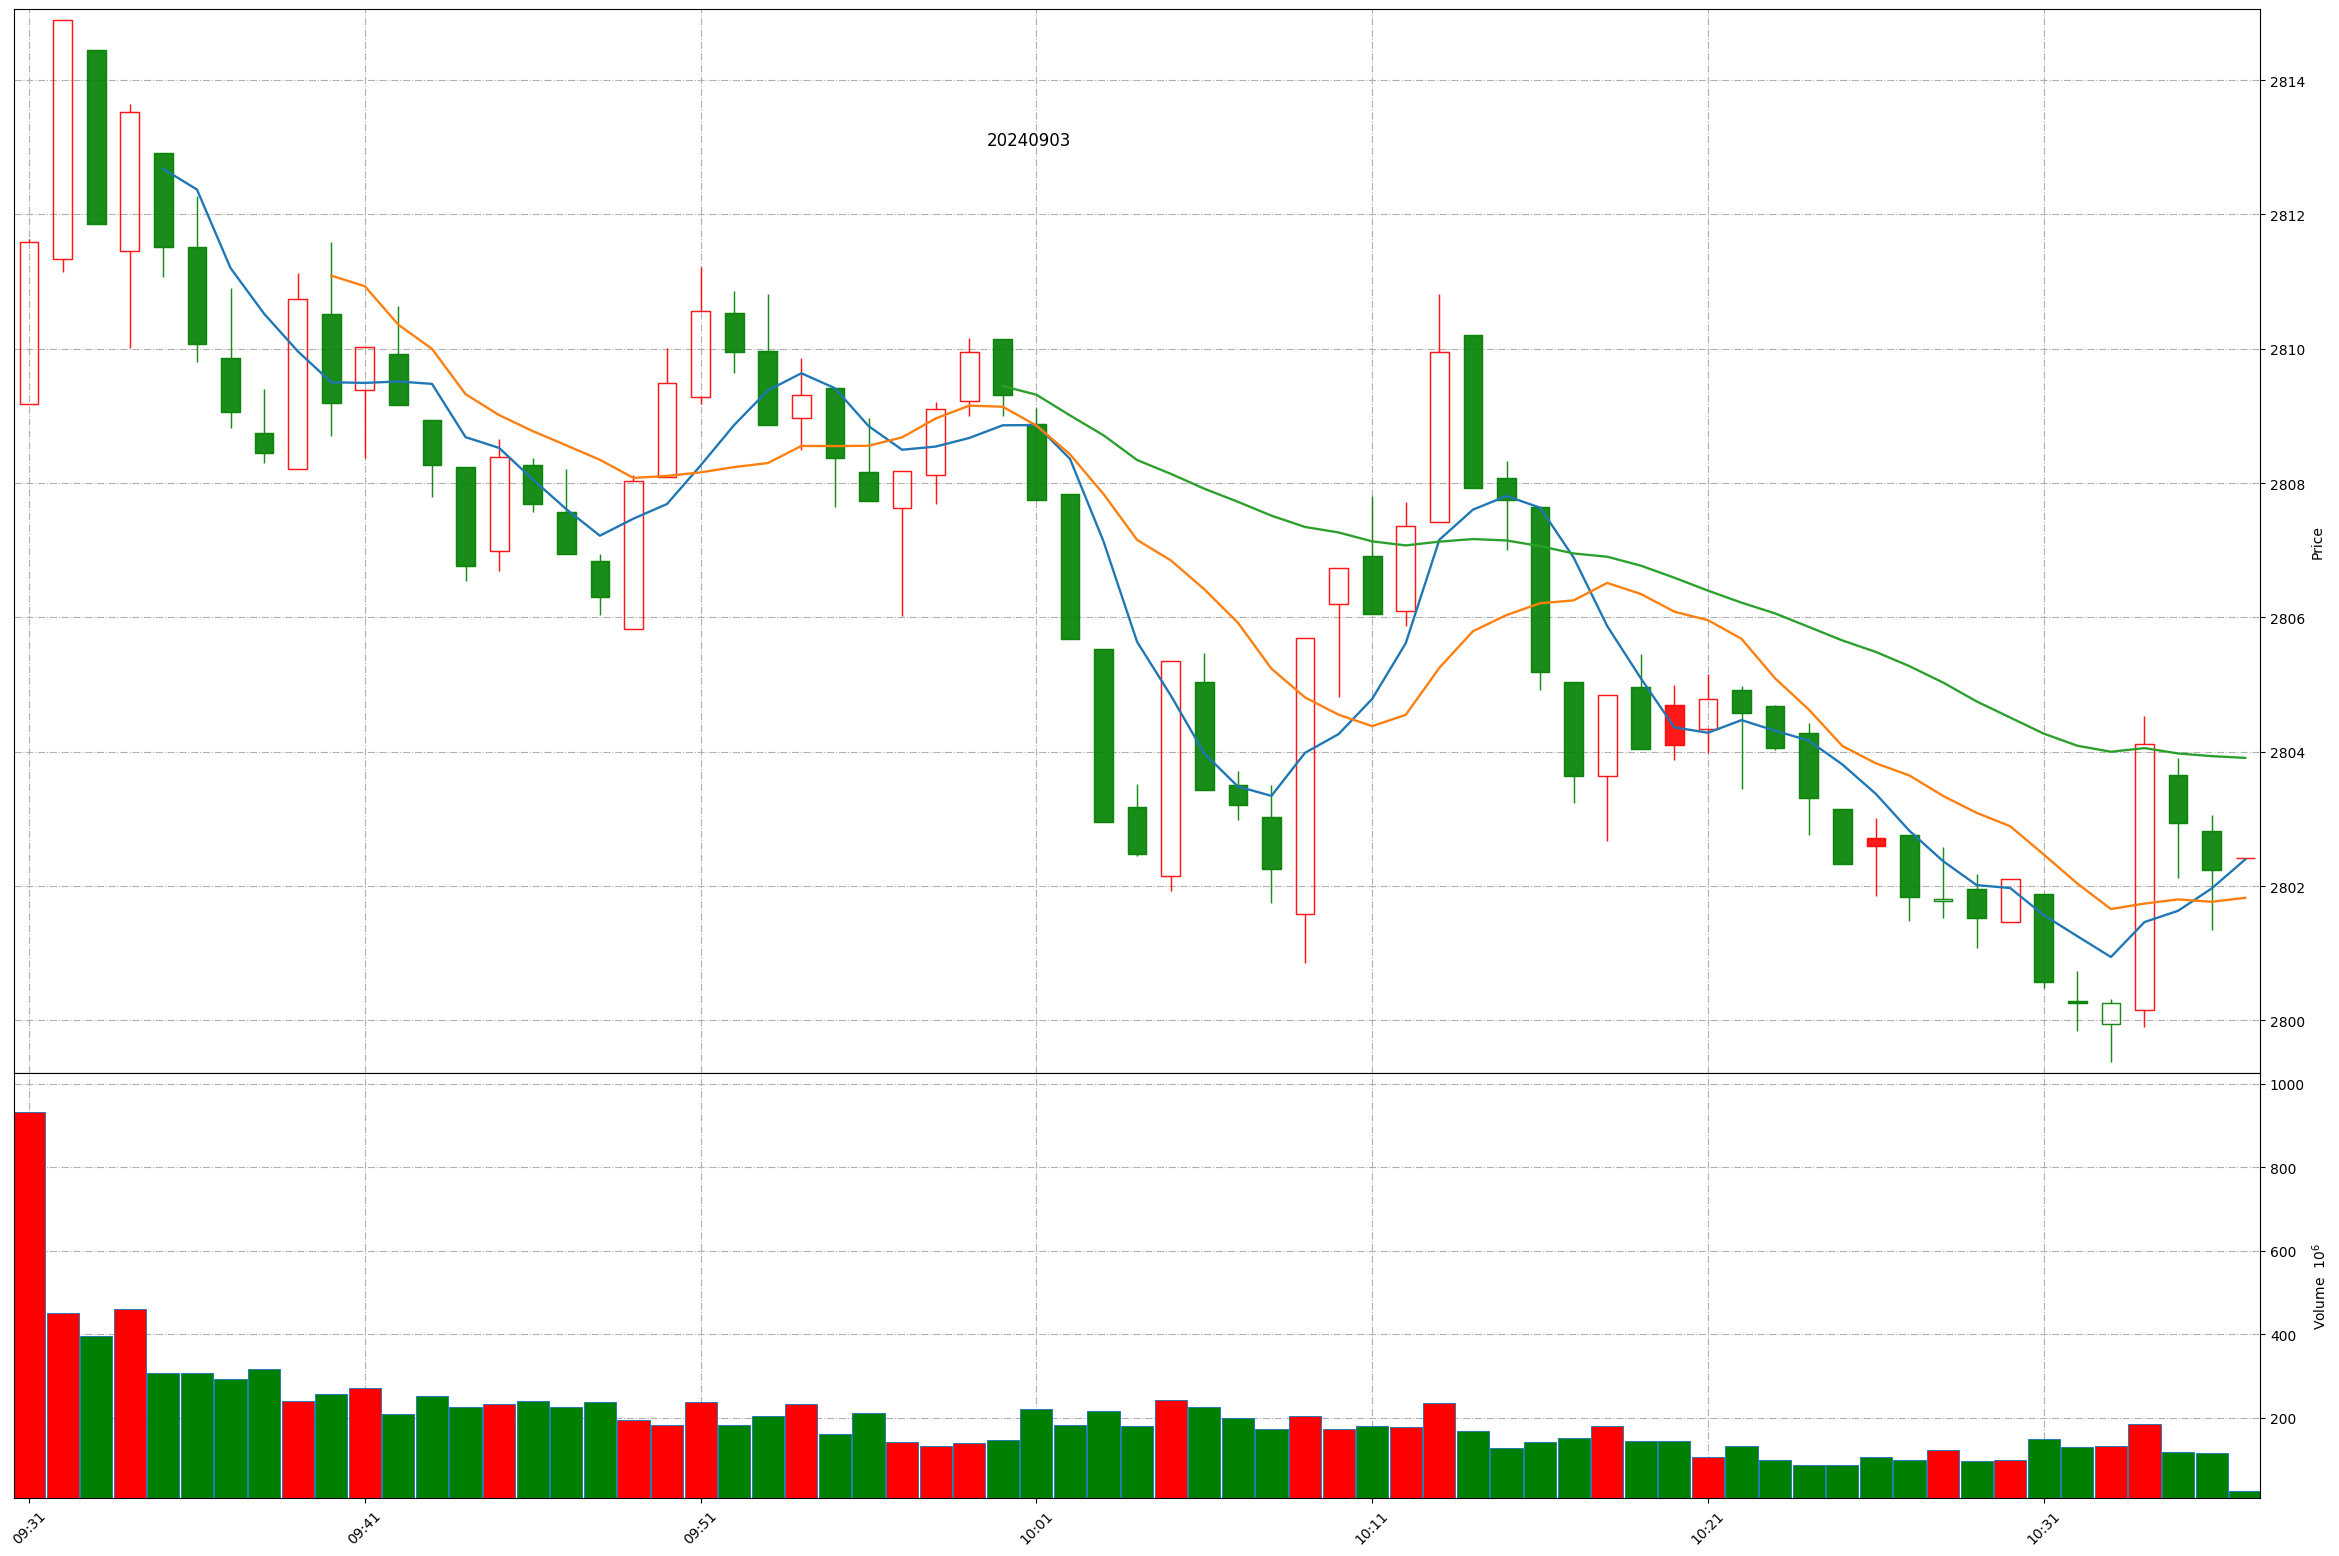
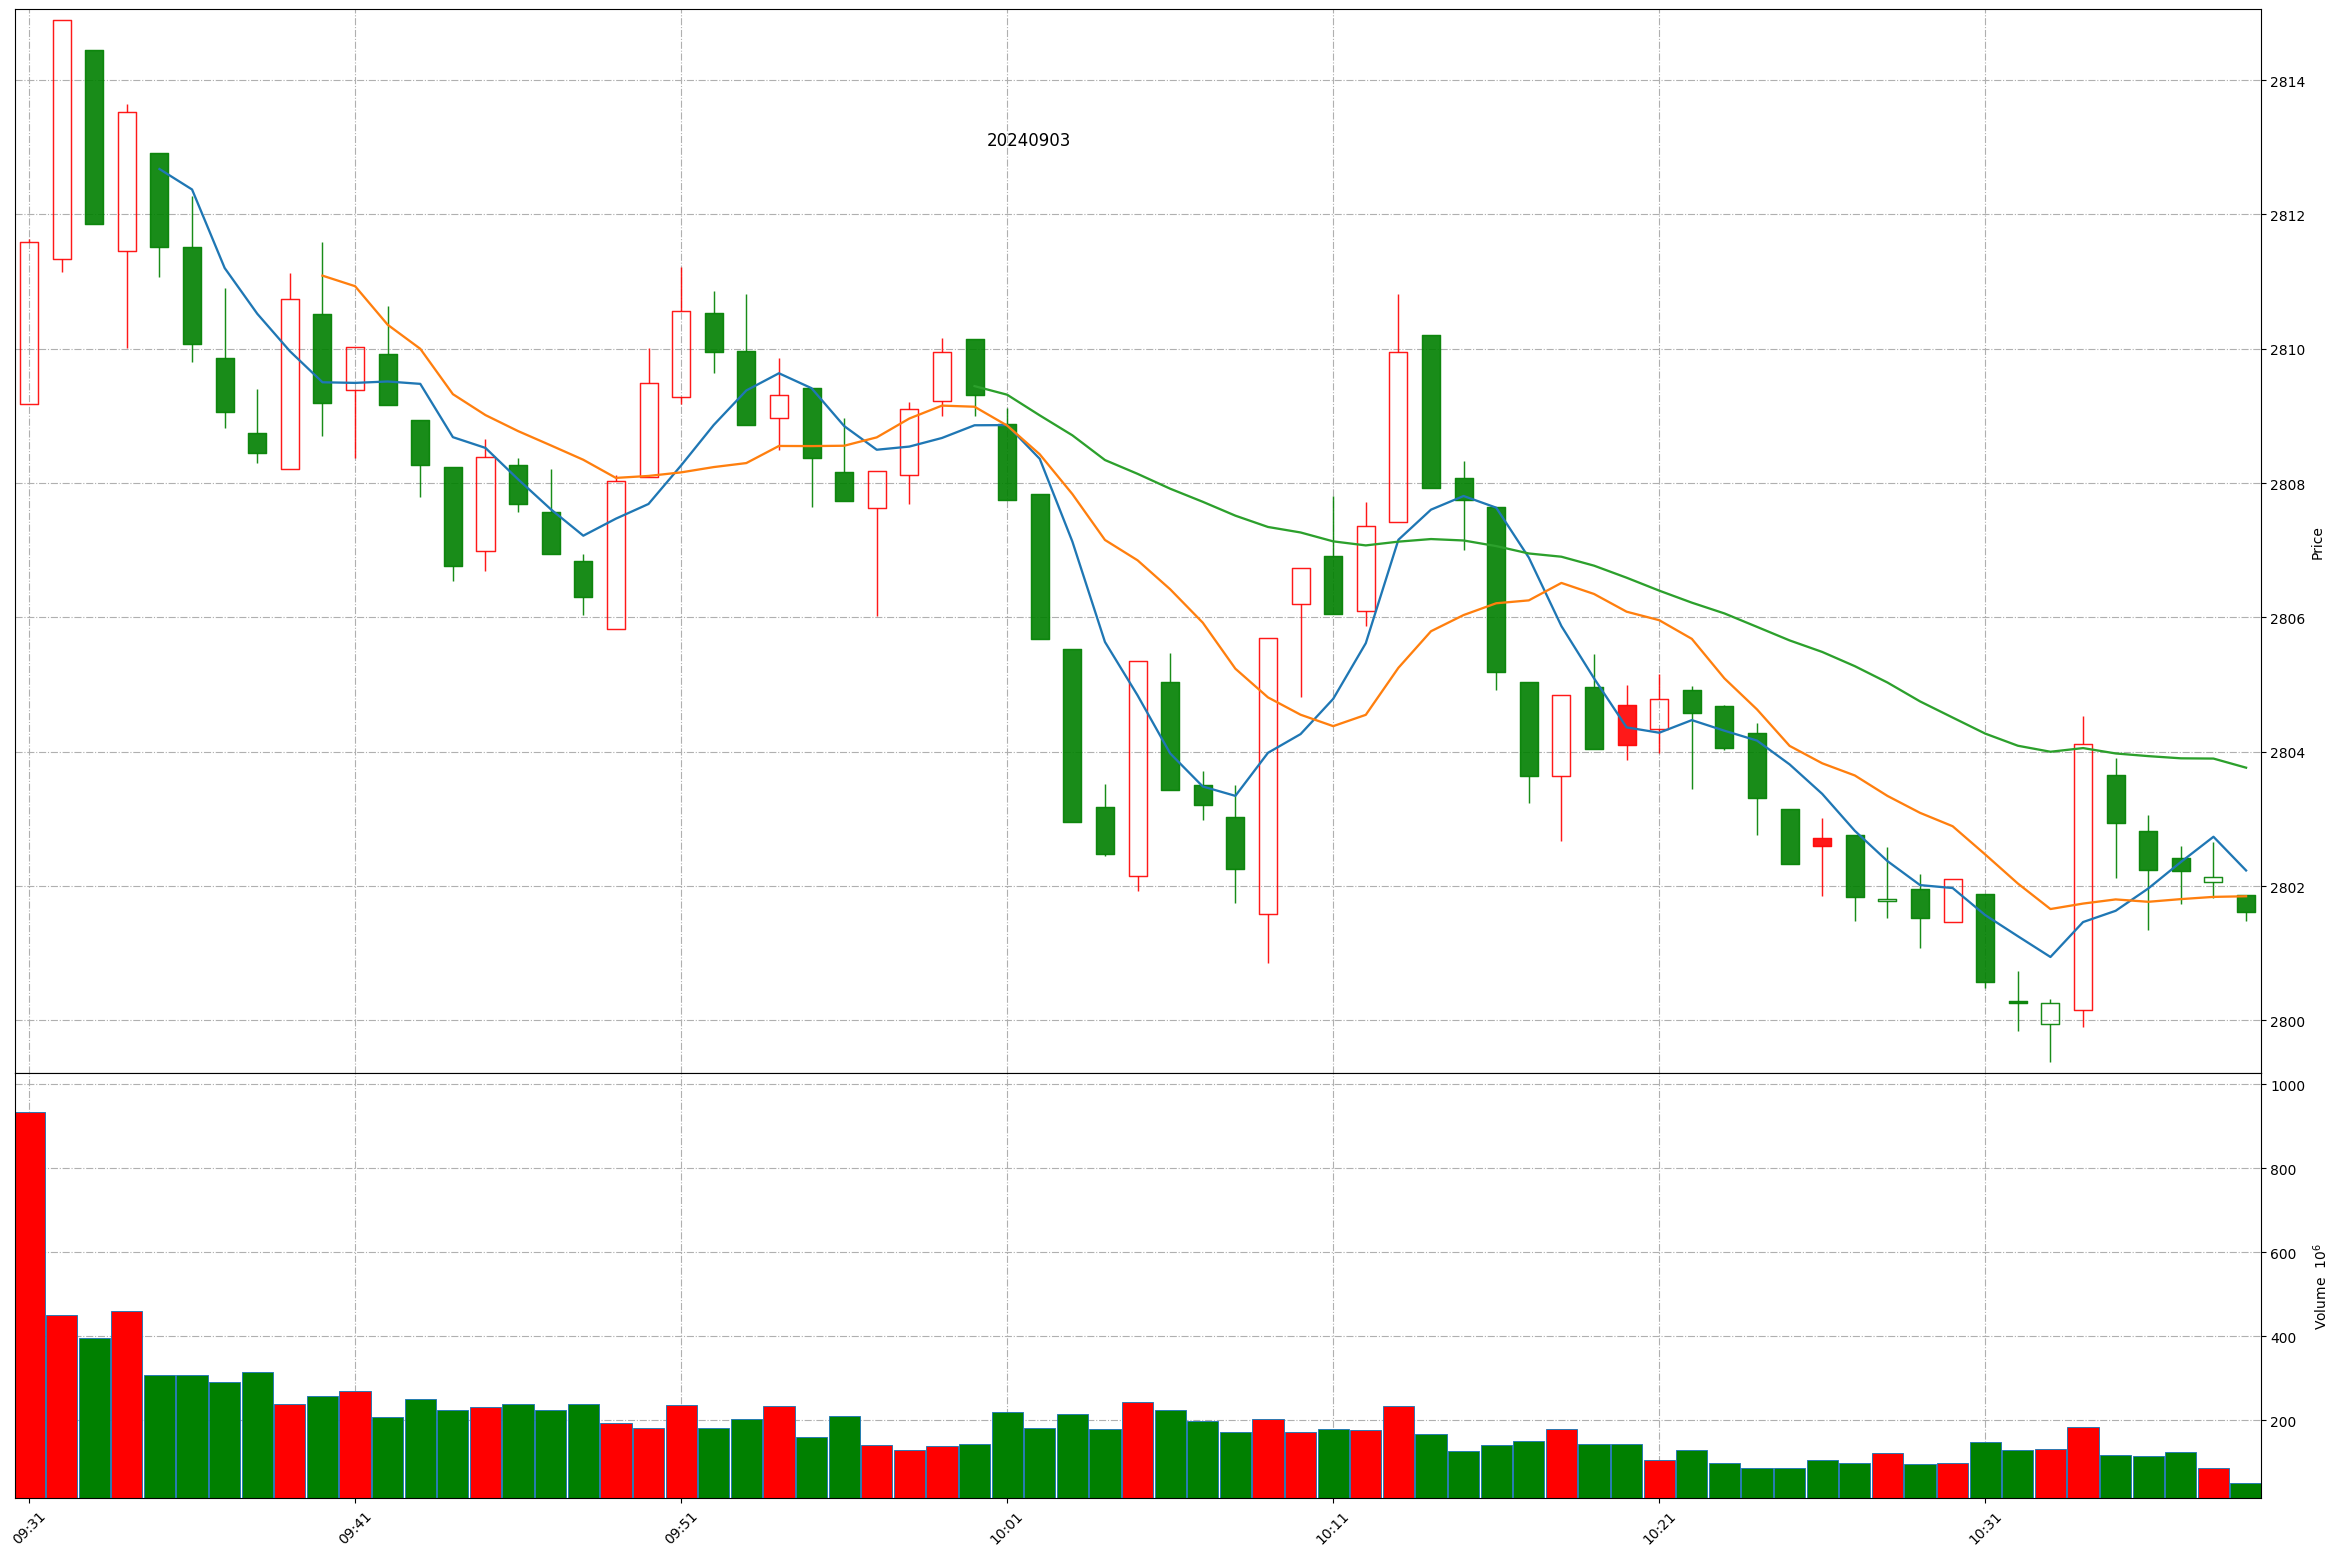
Github action update at 2024-09-03 10:38:37.

diff --git a/README.md b/README.md
@@ -1,11 +1,11 @@
 
 # Daily-A-share-market-quotes 每日 A 股指数（5min 更新）- 20240903
 
-### 上证指数 20240903 10:36
+### 上证指数 20240903 10:38
 ![](./fig/2024/9/20240903-sh000001.png)
 
-### 深证成指 20240903 10:36
+### 深证成指 20240903 10:38
 ![](./fig/2024/9/20240903-sz399001.png)
 
-### 北证50 20240903 10:36
+### 北证50 20240903 10:38
 ![](./fig/2024/9/20240903-bj899050.png)
